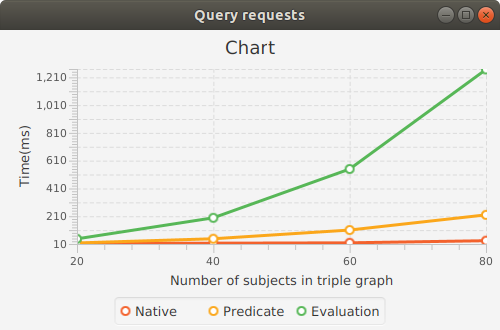
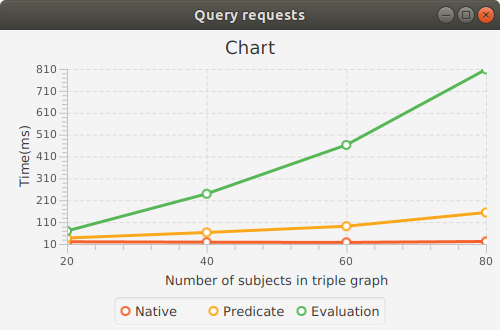
Recalculate query time for fixed number of queries

diff --git a/atomspace-storage-performance/src/main/java/sample/performance/PerformanceSampleNeo4j.java b/atomspace-storage-performance/src/main/java/sample/performance/PerformanceSampleNeo4j.java
@@ -1,8 +1,8 @@
 package sample.performance;
 
+import atomspace.performance.storage.neo4j.*;
 import atomspace.performance.triple.RandomTripleGraph;
 import atomspace.performance.triple.TripleGraph;
-import atomspace.performance.storage.neo4j.*;
 import org.apache.commons.lang3.time.StopWatch;
 
 import java.util.List;
@@ -50,20 +50,12 @@ public class PerformanceSampleNeo4j {
         System.out.printf("iterations: %d%n", iterations);
         TimeUnit timeUnit = TimeUnit.MILLISECONDS;
 
-
         for (TripleNeo4jModel model : models) {
 
-            StopWatch createWatch = new StopWatch();
-            createWatch.reset();
-            createWatch.start();
-            createWatch.suspend();
+            StopWatch createWatch = createAndInitStopWatch();
+            StopWatch queryWatch = createAndInitStopWatch();
 
-            StopWatch queryWatch = new StopWatch();
-            queryWatch.reset();
-            queryWatch.start();
-            queryWatch.suspend();
-
-            int queryNumbers = tripleGraph.getObjects().size();
+            int queryNumbers = 50;
 
             for (int i = 0; i < iterations; i++) {
                 storage.clearDB();
@@ -85,5 +77,13 @@ public class PerformanceSampleNeo4j {
             float queryTime = (float) queryWatch.getTime(timeUnit) / iterations;
             System.out.printf("model: %s, create: %.2f, query: %.2f%n", model.getName(), createTime, queryTime);
         }
+    }
+
+    private static StopWatch createAndInitStopWatch() {
+        StopWatch stopWatch = new StopWatch();
+        stopWatch.reset();
+        stopWatch.start();
+        stopWatch.suspend();
+        return stopWatch;
     }
 }

diff --git a/atomspace-storage-performance/src/main/java/sample/performance/PerformanceChartQueryNeo4j.java b/atomspace-storage-performance/src/main/java/sample/performance/PerformanceChartQueryNeo4j.java
@@ -14,24 +14,24 @@ public class PerformanceChartQueryNeo4j extends Application {
     static final String TITLE = "Query requests";
 
     static final double[][] DATA_NATIVE = {
-            {20, 13.75},
-            {40, 15.75},
-            {60, 18.50},
-            {80, 33.75},
+            {20, 20.25},
+            {40, 18.25},
+            {60, 17.25},
+            {80, 21.50},
     };
 
     static final double[][] DATA_PREDICATE = {
-            {20, 17.50},
-            {40, 47.75},
-            {60, 110.50},
-            {80, 219.75},
+            {20, 37.25},
+            {40, 62.75},
+            {60, 91.25},
+            {80, 154.00},
     };
 
     static final double[][] DATA_EVALUATION = {
-            {20, 47.25},
-            {40, 198.50},
-            {60, 549.75},
-            {80, 1266.50},
+            {20, 69.75},
+            {40, 239.50},
+            {60, 462.75},
+            {80, 808.25},
     };
 
     @Override
@@ -44,7 +44,7 @@ public class PerformanceChartQueryNeo4j extends Application {
         double xMax = 80;
 
         double yMin = 10;
-        double yMax = 1270;
+        double yMax = 810;
 
 
         final NumberAxis xAxis = new NumberAxis(xMin, xMax, 20);

diff --git a/atomspace-storage-performance/src/main/java/atomspace/performance/triple/TripleGraph.java b/atomspace-storage-performance/src/main/java/atomspace/performance/triple/TripleGraph.java
@@ -33,7 +33,6 @@ public abstract class TripleGraph {
     }
 
     protected final void addTriple(Triple triple) {
-        System.out.printf("add triple: %s\n", triple);
         subjects.add(triple.subject);
         predicates.add(triple.predicate);
         objects.add(triple.object);

diff --git a/atomspace-storage-performance/src/main/java/sample/performance/SampleNeo4j.java b/atomspace-storage-performance/src/main/java/sample/performance/SampleNeo4j.java
@@ -40,7 +40,7 @@ public class SampleNeo4j {
 
             List<String> objects = model.queryObject();
             for (String obj : objects) {
-                System.out.printf("Object: %s%n", obj);
+                System.out.printf("Object: %s%size", obj);
             }
 
         }

diff --git a/atomspace-storage-performance/README.md b/atomspace-storage-performance/README.md
@@ -103,13 +103,13 @@ Create time (ms)
 
 ![Create requests](docs/images/time_create.png)
 
-Query time (ms):
+Query time (ms), number of queries is 50:
 
-|Model     |  20  |  40  | 60   | 80    |
-|----------|------|------|------|-------|
-|Native    |13.75 |15.75 |18.50 |33.75  |
-|Predicate |17.50 |47.75 |110.50|219.75 |
-|Evaluation|47.25 |198.50|549.75|1266.50|
+|Model     |  20  |  40  | 60   | 80   |
+|----------|------|------|------|------|
+|Native    |20.25 |18.25 |17.25 |21.50 |
+|Predicate |37.50 |62.75 |91.50 |154.00|
+|Evaluation|69.75 |239.50|462.75|808.25|
 
 ![Query requests](docs/images/time_query.png)
 
